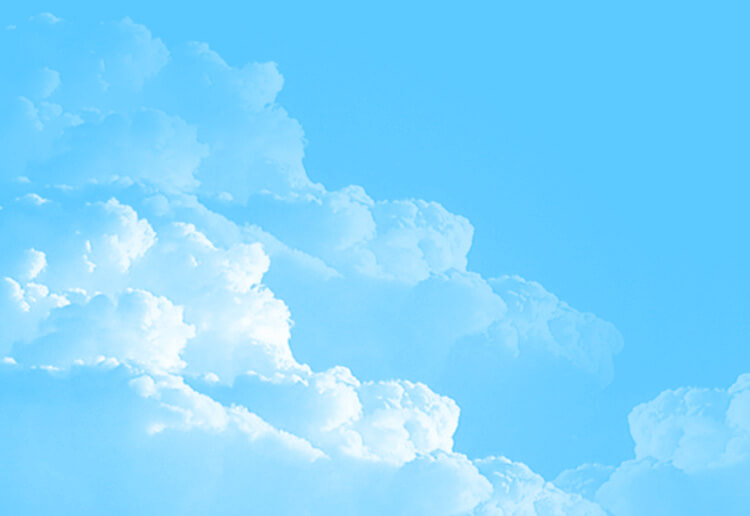
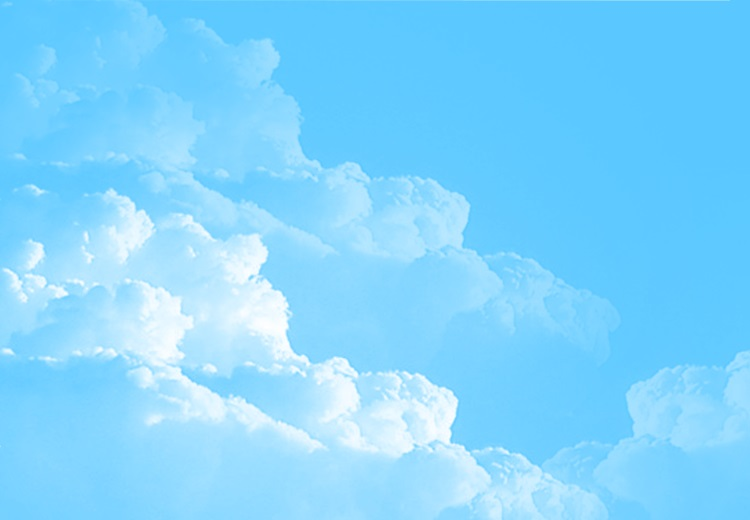
’我的‘页面图片更新

diff --git a/project/Application/Home/View/Users/mine.html b/project/Application/Home/View/Users/mine.html
@@ -4,6 +4,9 @@
 <meta charset="utf-8">
 <meta http-equiv="X-UA-Compatible" content="IE=edge">
 <meta name="viewport" content="width=device-width,initial-scale=1,user-scalable=no" >
+<meta HTTP-EQUIV="pragma" CONTENT="no-cache">      
+<meta HTTP-EQUIV="Cache-Control" CONTENT="no-store, must-revalidate">      <meta HTTP-EQUIV="expires" CONTENT="Wed, 26 Feb 1997 08:21:57 GMT">      
+<meta HTTP-EQUIV="expires" CONTENT="0"> 
 <script src="__PUBLIC__/Home/js/jquery-1.8.3.min.js"></script>
 <link rel="stylesheet" type="text/css" href="__PUBLIC__/Home/css/bootstrap.min.css">
 <link rel="stylesheet" type="text/css" href="__PUBLIC__/Home/css/mobileStyle.css">
@@ -22,7 +25,7 @@
 	    padding-top: 5vh;
 	}
 	.bgTop {
-   		background: url(__PUBLIC__/Home/images/mine-first-02.jpg) no-repeat;
+   		background: url('__PUBLIC__/Home/images/mine-first-02.jpg') no-repeat;
 	}
 	#mine-first-container {
 		margin: 0rem 0.4rem 0.0rem 0.4rem;
@@ -122,6 +125,9 @@
 </style>
 </head> 
 <body>
+<div style="display: none">
+	<img src="__PUBLIC__/Home/images/mine-first-01.png" alt="">
+</div>
 <div id="mine-first-all" class="mine-first-all bgTop" >
 	<a id="back2Home" href="{{:U('Home/index/index')}}"><i class="iconfont icon-zhuye"></i></a>
 	<div id="mine-first-container">
@@ -230,5 +236,13 @@
 	
 </div>
 	
+	<script>
+		// 禁止页面缓存
+		if(!window.name){         
+		var str = Math.random().toString(36).substr(2);		//随机字符串
+		    window.location.href += '?S='+ str;		//兼容微信浏览器刷新
+		    window.name = 'isreload';     
+		}
+	</script>
 </body>
 </html>

diff --git a/project/Public/Home/css/mine-first.css b/project/Public/Home/css/mine-first.css
@@ -18,7 +18,7 @@ ul, li, dl, dt, dd, form, h1, h2, h3, h4, p, input, form {
 	background-size: contain;
 }
 .mine-first-all{
-	background: url(../images/mine-first-01.jpg) no-repeat;
+	background: url(../images/mine-first-01.png) no-repeat;
 }
 #mine-first-container {
 	width: 9.2rem;
